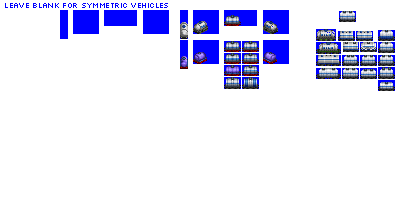
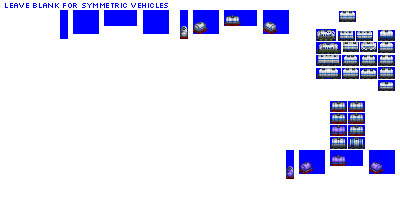
Change: sprites complete for 2A, 3A and 4A edibles tank cars

Changed region(s): [[0.69, 0.48, 0.99, 0.9], [0.45, 0.09, 0.72, 0.45]]

diff --git a/src/vehicles/edibles_tank_cars.py b/src/vehicles/edibles_tank_cars.py
@@ -9,7 +9,8 @@ def main():
     consist = EdiblesTankCarConsist(roster='pony',
                                     base_numeric_id=3030,
                                     gen=2,
-                                    subtype='A')
+                                    subtype='A',
+                                    sprites_complete=True)
 
     consist.add_unit(type=FreightCar,
                      vehicle_length=4,
@@ -18,7 +19,8 @@ def main():
     consist = EdiblesTankCarConsist(roster='pony',
                                     base_numeric_id=1190,
                                     gen=3,
-                                    subtype='A')
+                                    subtype='A',
+                                    sprites_complete=True)
 
     consist.add_unit(type=FreightCar,
                      vehicle_length=4,
@@ -27,7 +29,8 @@ def main():
     consist = EdiblesTankCarConsist(roster='pony',
                                     base_numeric_id=2990,
                                     gen=4,
-                                    subtype='A')
+                                    subtype='A',
+                                    sprites_complete=True)
 
     consist.add_unit(type=FreightCar,
                      vehicle_length=4,
